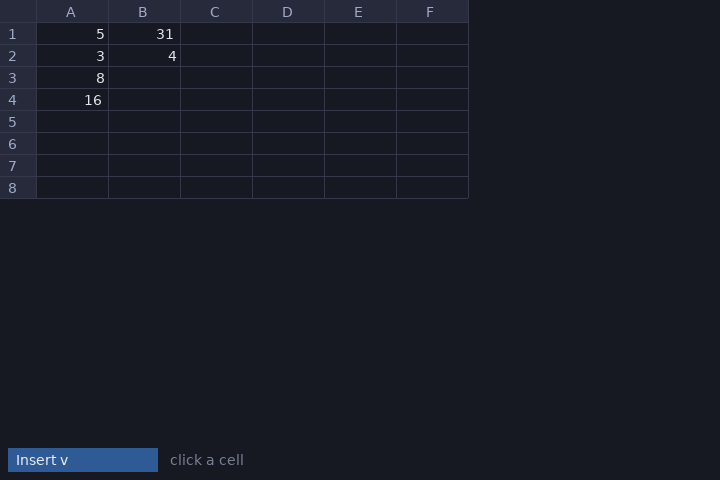
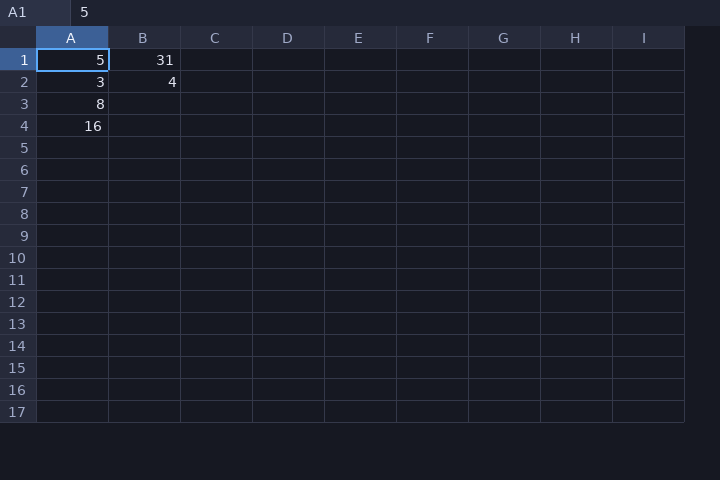
spreadsheet UX: in-cell editing, formula bar, active-header highlight, fuller grid
Addresses the adversarial-review findings:
- in-cell editing: click a cell and type; Enter commits + recalcs and moves
  down; Escape cancels; arrows move (committing any edit first). Cells are now
  editable — the blocking gap. (_key_char maps scancode+shift to the char.)
- formula bar (top): name box shows the active reference, content shows/edits
  the cell's raw formula — feedback now sits with the data, not a bottom whisper.
- active column+row header highlight for the selected cell.
- grid fills the viewport (9x17) instead of a small island in dark space.
- number formatting: whole values as ints, else trimmed decimals (=A1/A2 shows
  1.6667, not a float tail).
- dropped the non-idiomatic Insert dropdown in favour of real editing.

draw_grid gains a  offset (render oracle passes 0, keeping its geometry;
run passes the formula-bar height). mouse oracle rewritten as a mouse+keyboard
oracle: click A4, TYPE '=A1*A2', Enter -> A4=15, B1 recalcs 31->29. All four
oracles (model, calc, render, mouse) green.

diff --git a/tests/mouse_oracle.py b/tests/mouse_oracle.py
@@ -1,38 +1,35 @@
 #!/usr/bin/env python3
-"""Mouse oracle for eigen-sheet: drive REAL pointer input, verify by pixels.
+"""Mouse+keyboard oracle for eigen-sheet: drive REAL input, verify by pixels.
 
-A dropdown/menu is not verified until a real click moved real pixels (the #599
-lesson). So this launches the interactive app, drives xdotool through the whole
-mouse flow — click a cell to select it, click the "Insert" button to open the
-dropdown, click a menu item — and then DECODES the grid to assert the mutation
-landed and propagated:
+An interaction is not verified until real input moved real pixels (the #599
+lesson). So this launches the interactive app and drives xdotool through the
+primary editing flow — click cell A4 to select it, TYPE "=A1*A2", press Enter —
+then decodes the grid to assert the edit landed and propagated:
 
-    select A4 -> open dropdown -> click "=A1*A2"
+    click A4 -> type "=A1*A2" -> Enter
       => A4 becomes 15 (=5*3), and B1 recomputes 31 -> 29 (=A4*2-1).
 
-The dependency propagation through a mouse-driven edit is the payoff: the click
-has to reach the real event decode, mutate the model, and trigger recalc. The
-checker is validated by asserting the post-click grid actually differs from the
-untouched baseline (so a no-op drive can't pass), and by driving the popup
-click-trap: the menu item must win the click over the grid cell beneath it.
+That exercises the whole chain a user relies on: the click reaches the real
+event decode and selects the cell; the keystrokes reach the char mapping and
+build the edit buffer; Enter commits and recalc propagates through the
+dependency graph; and the render shows it. The checker is validated by
+asserting the post-edit grid differs from the untouched baseline (so a no-op
+drive can't pass).
 
 Assumes an X display (CI wraps this in xvfb-run). Needs the gfx build, xdotool,
 xwd, PIL. Reuses the render oracle's bitmap-font decoder.
 """
 import os, subprocess, sys, time, tempfile, shutil
-import ui_oracle as u   # same dir: atlas + grid decoder + capture helpers
+import ui_oracle as u   # atlas + grid decoder + capture helpers
 
-EIGS = u.EIGS
-ENV = u.ENV
-REPO = u.REPO
+EIGS, ENV, REPO = u.EIGS, u.ENV, u.REPO
 
-# Interactive-run grid geometry (window coords), from sheet.eigs run().
-GX, GY, CW, RH = 36, 22, 72, 22
-BTN = (83, 448 + 12)                   # Insert button center
-ITEM1 = (83, 448 - (3 - 1) * 22 + 10)  # menu item k=1 ("=A1*A2") center
+# run()'s interactive grid geometry (window coords): formula bar (26) + column
+# header (22) push the first data row to y=48.
+GX, GY, CW, RH = 36, 48, 72, 22
 
 
-def cell_xy(col, row):   # 0-based -> window-pixel center of the cell
+def cell_xy(col, row):
     return (GX + col * CW + CW // 2, GY + row * RH + RH // 2)
 
 
@@ -50,8 +47,7 @@ def launch():
         r = subprocess.run(["xdotool", "search", "--name", "eigen-sheet"],
                            env=ENV, capture_output=True, text=True)
         if r.stdout.strip():
-            wid = r.stdout.strip().split("\n")[0]
-            break
+            wid = r.stdout.strip().split("\n")[0]; break
         if proc.poll() is not None:
             raise RuntimeError("app exited early: " + (proc.stdout.read() or ""))
     if not wid:
@@ -68,7 +64,15 @@ def launch():
 def click(origin, wx, wy):
     subprocess.run(["xdotool", "mousemove", str(origin[0] + wx), str(origin[1] + wy)], env=ENV)
     subprocess.run(["xdotool", "click", "1"], env=ENV)
-    time.sleep(0.25)
+    time.sleep(0.2)
+
+
+def type_text(t):
+    subprocess.run(["xdotool", "type", "--", t], env=ENV); time.sleep(0.2)
+
+
+def press(k):
+    subprocess.run(["xdotool", "key", k], env=ENV); time.sleep(0.2)
 
 
 def grab(wid, tmp, atlas):
@@ -78,7 +82,7 @@ def grab(wid, tmp, atlas):
         if subprocess.run(["xwd", "-id", wid, "-out", xwd], env=ENV, capture_output=True).returncode == 0:
             img = u._xwd_to_image(xwd)
             if u._has_content(img):
-                return u.decode_grid(img, atlas)
+                return u.decode_grid(img, atlas, gy=GY)
     raise RuntimeError("could not capture the window")
 
 
@@ -89,27 +93,27 @@ def main():
         if origin is None:
             raise RuntimeError("no window position")
         print("window origin (screen): %r" % (origin,))
-        baseline = grab(wid, tmp, atlas)   # A4=16 (row3,col0), B1=31 (row0,col1)
+        baseline = grab(wid, tmp, atlas)          # A4=16 (row3,col0), B1=31 (row0,col1)
         print("baseline A4=%r B1=%r" % (baseline[3][0], baseline[0][1]))
 
-        click(origin, *cell_xy(0, 3))      # select A4
-        click(origin, *BTN)                # open the Insert dropdown
-        click(origin, *ITEM1)              # click "=A1*A2"
+        click(origin, *cell_xy(0, 3))             # select A4 with the mouse
+        type_text("=A1*A2")                       # type a formula
+        press("Return")                           # commit
         after = grab(wid, tmp, atlas)
         print("after    A4=%r B1=%r" % (after[3][0], after[0][1]))
 
         fails = 0
         if after[3][0] != "15":
-            fails += 1; print("FAIL A4 did not become 15 (mouse edit didn't land): %r" % after[3][0])
+            fails += 1; print("FAIL A4 did not become 15 (typed edit didn't land): %r" % after[3][0])
         if after[0][1] != "29":
             fails += 1; print("FAIL B1 did not recompute to 29 (no dependency propagation): %r" % after[0][1])
         if after == baseline:
             fails += 1; print("FAIL grid unchanged — the drive was a no-op")
         if not fails:
-            print("PASS mouse flow: select A4 -> dropdown -> '=A1*A2' -> A4=15, B1 recalculated 31->29")
+            print("PASS click A4 -> type '=A1*A2' -> Enter -> A4=15, B1 recalculated 31->29")
         if fails:
             sys.exit(1)
-        print("\nmouse oracle passed")
+        print("\nmouse+keyboard oracle passed")
     finally:
         proc.terminate()
         try: proc.wait(timeout=5)

diff --git a/tests/ui_oracle.py b/tests/ui_oracle.py
@@ -189,15 +189,20 @@ def build_atlas(edit_path):
     return atlas
 
 
-def decode_grid(img, atlas):
-    """Decode the rendered data grid into rows of cell strings (right-aligned)."""
+def decode_grid(img, atlas, gy=GY):
+    """Decode the rendered data grid into rows of cell strings (right-aligned).
+
+    gy is the pixel y of the first data row's top; draw_grid at top=0 has it at
+    GY, but run()'s formula-bar layout pushes it down (the mouse oracle passes
+    the shifted value).
+    """
     px = img.load(); W, H = img.size
     grid = []
     for r in range(NROWS):
         row = []
         for c in range(NCOLS):
             ox = GX + c * CW
-            oy = GY + r * RH + TPAD
+            oy = gy + r * RH + TPAD
             s = ""
             for k in range(CW // CELL_W):        # every glyph cell across the cell
                 cx = ox + k * CELL_W
@@ -213,7 +218,7 @@ def render_grid(edit_path, atlas):
     body = {"setup": ("s is sheet.new_sheet of null\n"
                       + "\n".join('sheet.set_cell of [s, "%s", "%s"]' % (a, v) for a, v in CELLS.items())
                       + "\nsheet.recalc of s"),
-            "frame": "sheet.draw_grid of [s, %d, %d]" % (NCOLS, NROWS)}
+            "frame": "sheet.draw_grid of [s, %d, %d, 0]" % (NCOLS, NROWS)}
     return decode_grid(_capture(edit_path, body, "eigen-sheet v0.1.0"), atlas)
 
 